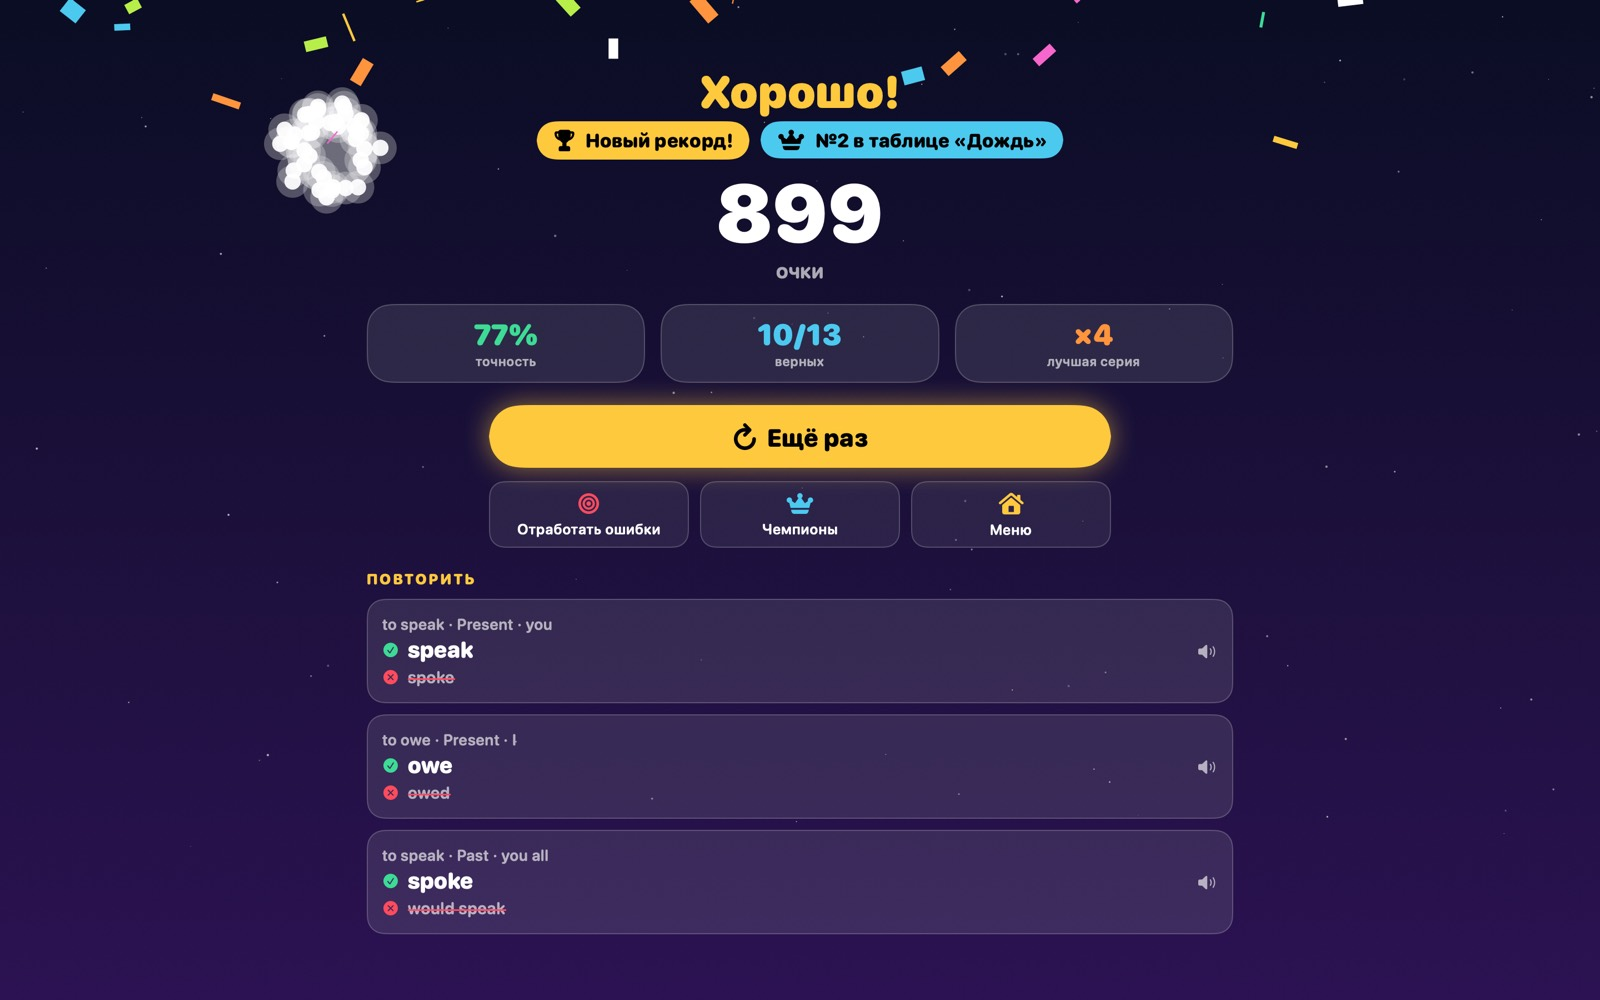
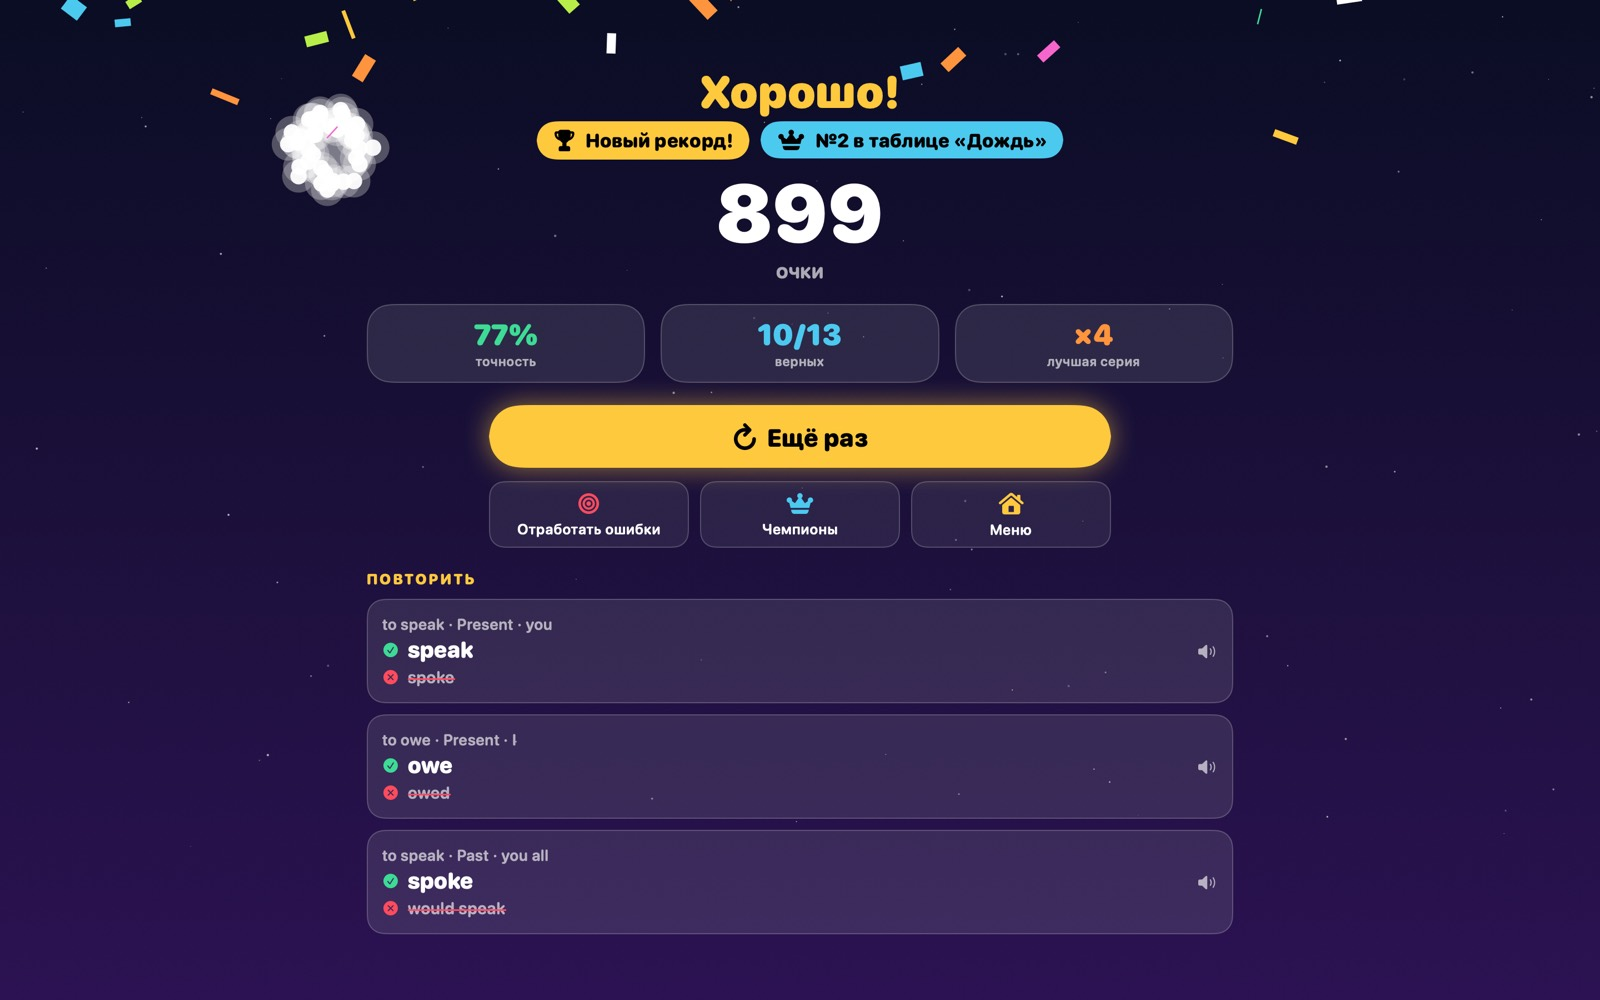
Give the style sheet and the script versioned URLs
GitHub Pages lets browsers keep them for ten minutes, so a new page could run with the old ones: the address
without its @ (from the style sheet) and without its link (from the script). Each URL now carries a hash of its
file. The Mac screenshot is retaken.

diff --git a/privacy/index.html b/privacy/index.html
@@ -11,7 +11,7 @@
 <meta name="theme-color" content="#2b1252">
 <link rel="icon" href="../assets/icon-64.png">
 <link rel="apple-touch-icon" href="../assets/icon-180.png">
-<link rel="stylesheet" href="../assets/site.css">
+<link rel="stylesheet" href="../assets/site.css?v=25294abdeb">
 </head>
 <body>
 <div class="wrap">
@@ -100,6 +100,6 @@
 <footer class="site"><p>Цей сайт не використовує файли cookie та аналітику; вибрана мова зберігається у вашому браузері.</p><p><a href="../">Головна</a> · <a href="../support/">Підтримка</a> · <a href="../privacy/">Конфіденційність</a> · <a href="https://github.com/kromych/verbomio">GitHub</a></p></footer>
 </section>
 </div>
-<script src="../assets/site.js" defer></script>
+<script src="../assets/site.js?v=1e48384ed5" defer></script>
 </body>
 </html>

diff --git a/support/index.html b/support/index.html
@@ -11,7 +11,7 @@
 <meta name="theme-color" content="#2b1252">
 <link rel="icon" href="../assets/icon-64.png">
 <link rel="apple-touch-icon" href="../assets/icon-180.png">
-<link rel="stylesheet" href="../assets/site.css">
+<link rel="stylesheet" href="../assets/site.css?v=25294abdeb">
 </head>
 <body>
 <div class="wrap">
@@ -40,6 +40,6 @@
 <footer class="site"><p>Цей сайт не використовує файли cookie та аналітику; вибрана мова зберігається у вашому браузері.</p><p><a href="../">Головна</a> · <a href="../support/">Підтримка</a> · <a href="../privacy/">Конфіденційність</a> · <a href="https://github.com/kromych/verbomio">GitHub</a></p></footer>
 </section>
 </div>
-<script src="../assets/site.js" defer></script>
+<script src="../assets/site.js?v=1e48384ed5" defer></script>
 </body>
 </html>

diff --git a/404.html b/404.html
@@ -11,7 +11,7 @@
 <meta name="theme-color" content="#2b1252">
 <link rel="icon" href="/assets/icon-64.png">
 <link rel="apple-touch-icon" href="/assets/icon-180.png">
-<link rel="stylesheet" href="/assets/site.css">
+<link rel="stylesheet" href="/assets/site.css?v=25294abdeb">
 </head>
 <body>
 <div class="wrap">
@@ -36,6 +36,6 @@
 <footer class="site"><p>Цей сайт не використовує файли cookie та аналітику; вибрана мова зберігається у вашому браузері.</p><p><a href="/">Головна</a> · <a href="/support/">Підтримка</a> · <a href="/privacy/">Конфіденційність</a> · <a href="https://github.com/kromych/verbomio">GitHub</a></p></footer>
 </section>
 </div>
-<script src="/assets/site.js" defer></script>
+<script src="/assets/site.js?v=1e48384ed5" defer></script>
 </body>
 </html>

diff --git a/index.html b/index.html
@@ -11,7 +11,7 @@
 <meta name="theme-color" content="#2b1252">
 <link rel="icon" href="assets/icon-64.png">
 <link rel="apple-touch-icon" href="assets/icon-180.png">
-<link rel="stylesheet" href="assets/site.css">
+<link rel="stylesheet" href="assets/site.css?v=25294abdeb">
 </head>
 <body>
 <div class="wrap">
@@ -44,6 +44,6 @@
 <footer class="site"><p>Цей сайт не використовує файли cookie та аналітику; вибрана мова зберігається у вашому браузері.</p><p><a href="./">Головна</a> · <a href="support/">Підтримка</a> · <a href="privacy/">Конфіденційність</a> · <a href="https://github.com/kromych/verbomio">GitHub</a></p></footer>
 </section>
 </div>
-<script src="assets/site.js" defer></script>
+<script src="assets/site.js?v=1e48384ed5" defer></script>
 </body>
 </html>
